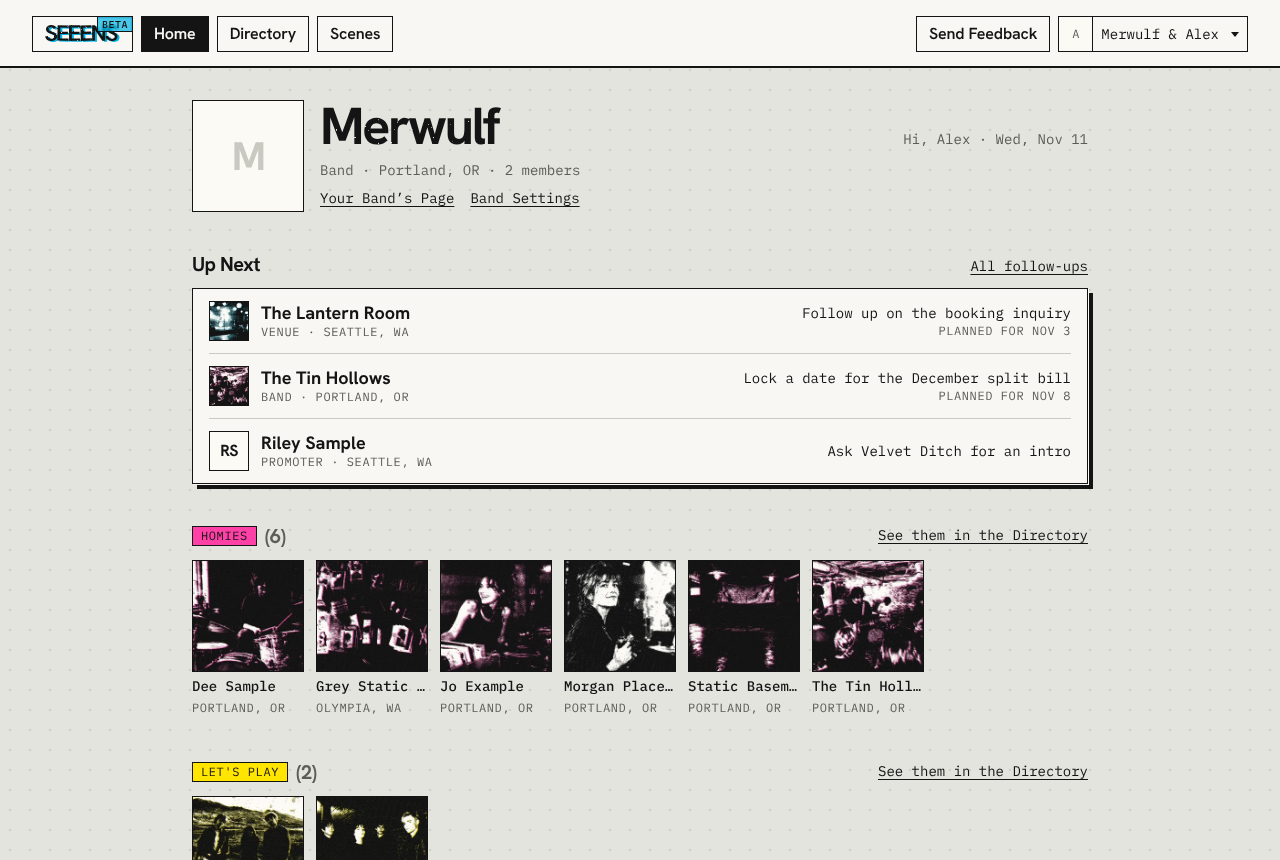
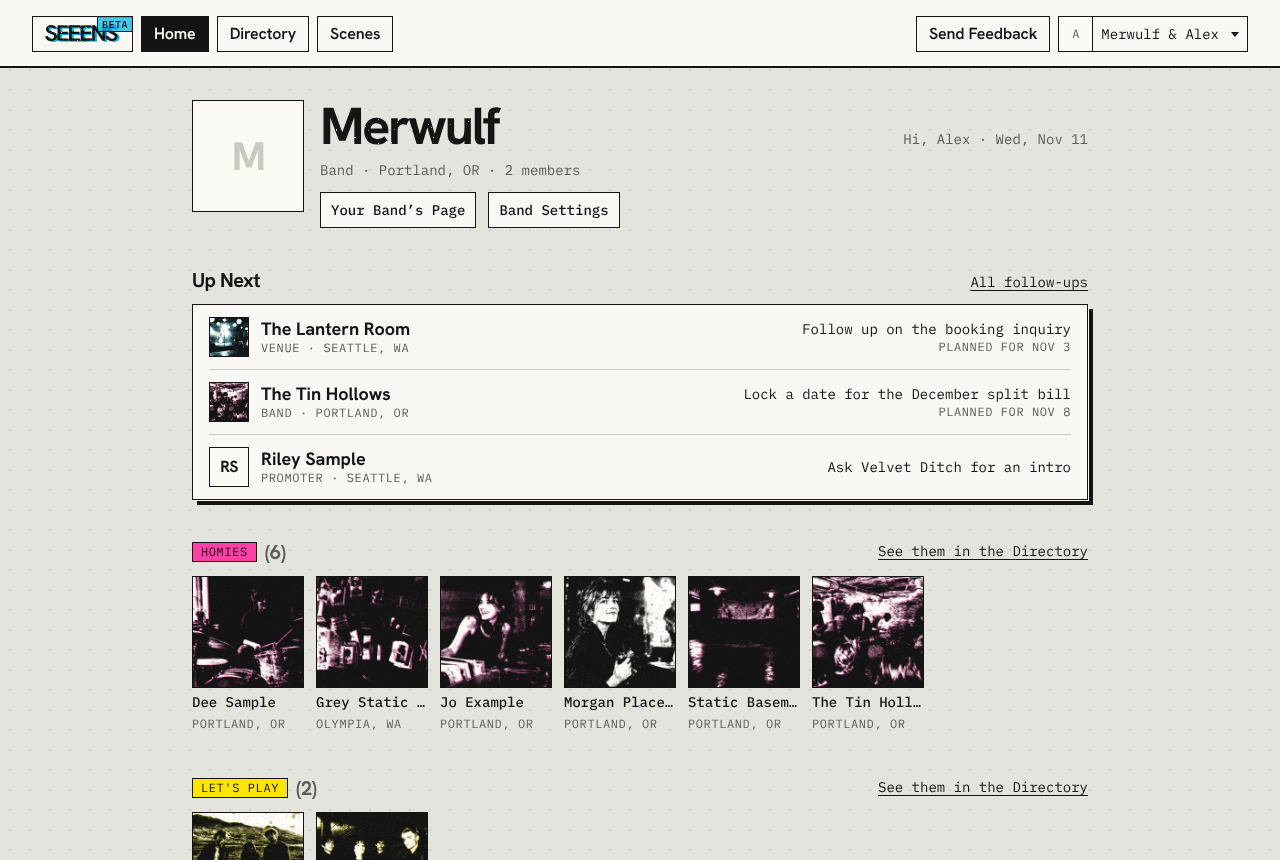
Home: Your Band's Page and Band Settings as buttons
Claude-Session: https://claude.ai/code/session_01SMP6NnyPkRALtU7G1T7uNS

diff --git a/src/components/home.tsx b/src/components/home.tsx
@@ -98,15 +98,15 @@ export async function HomeHeader() {
             ))}
           </p>
         ) : null}
-        <p className="flex flex-wrap gap-x-4 gap-y-1 text-sm">
+        <div className="flex flex-wrap gap-3 pt-1">
           {/* A full page load, like the account menu's link to it. */}
-          <a href={us ? `/connections/${us.id}` : "/add?us=1"} className="link">
+          <a href={us ? `/connections/${us.id}` : "/add?us=1"} className="button-secondary">
             {us ? "Your Band’s Page" : "Add Your Band’s Page"}
           </a>
-          <Link href="/band" className="link">
+          <Link href="/band" className="button-secondary">
             Band Settings
           </Link>
-        </p>
+        </div>
       </div>
     </header>
   );
